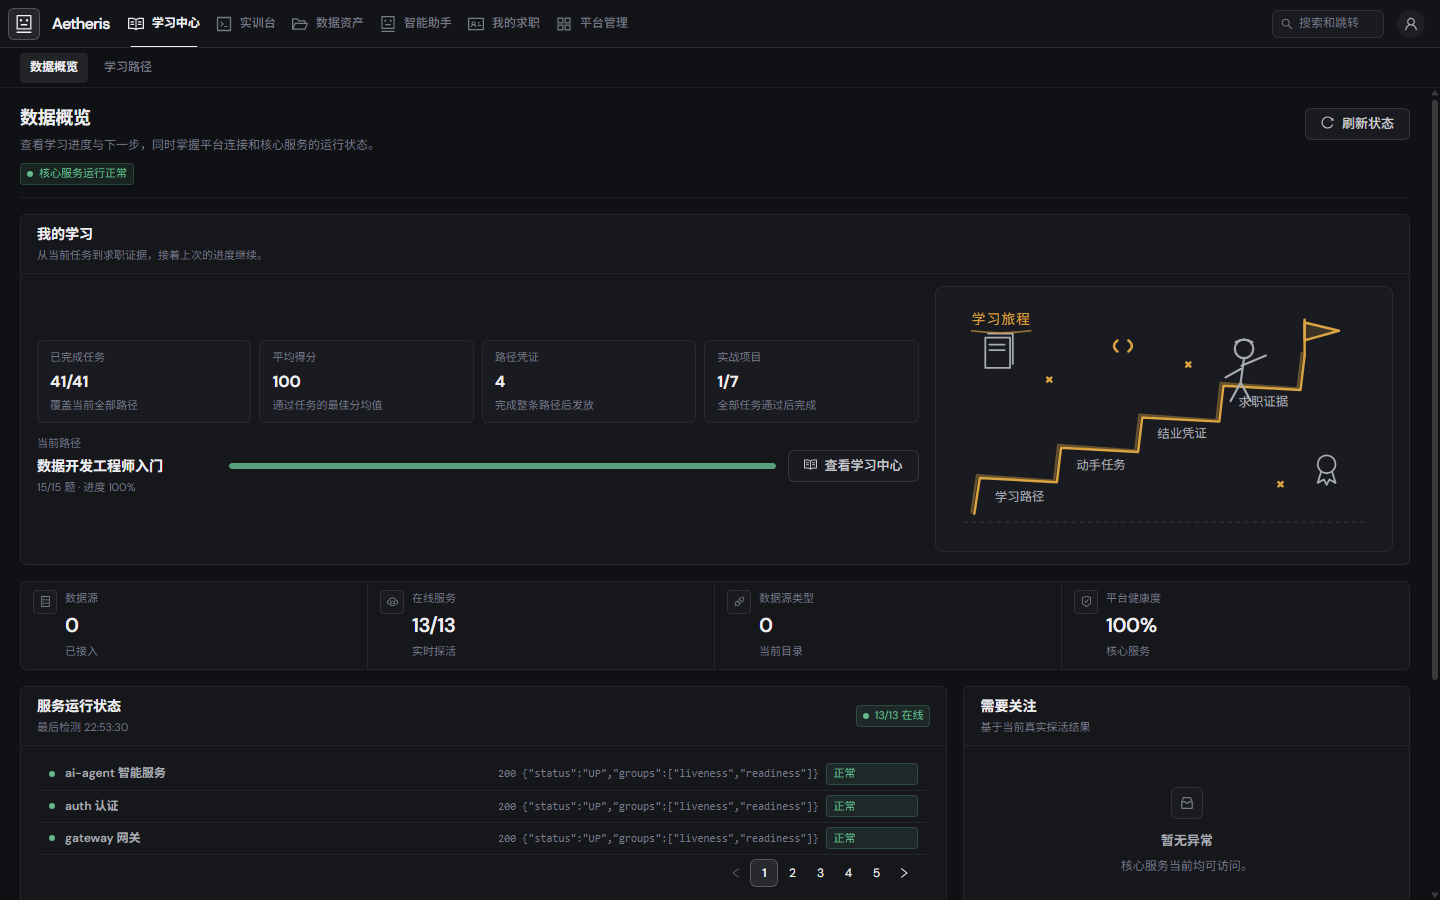
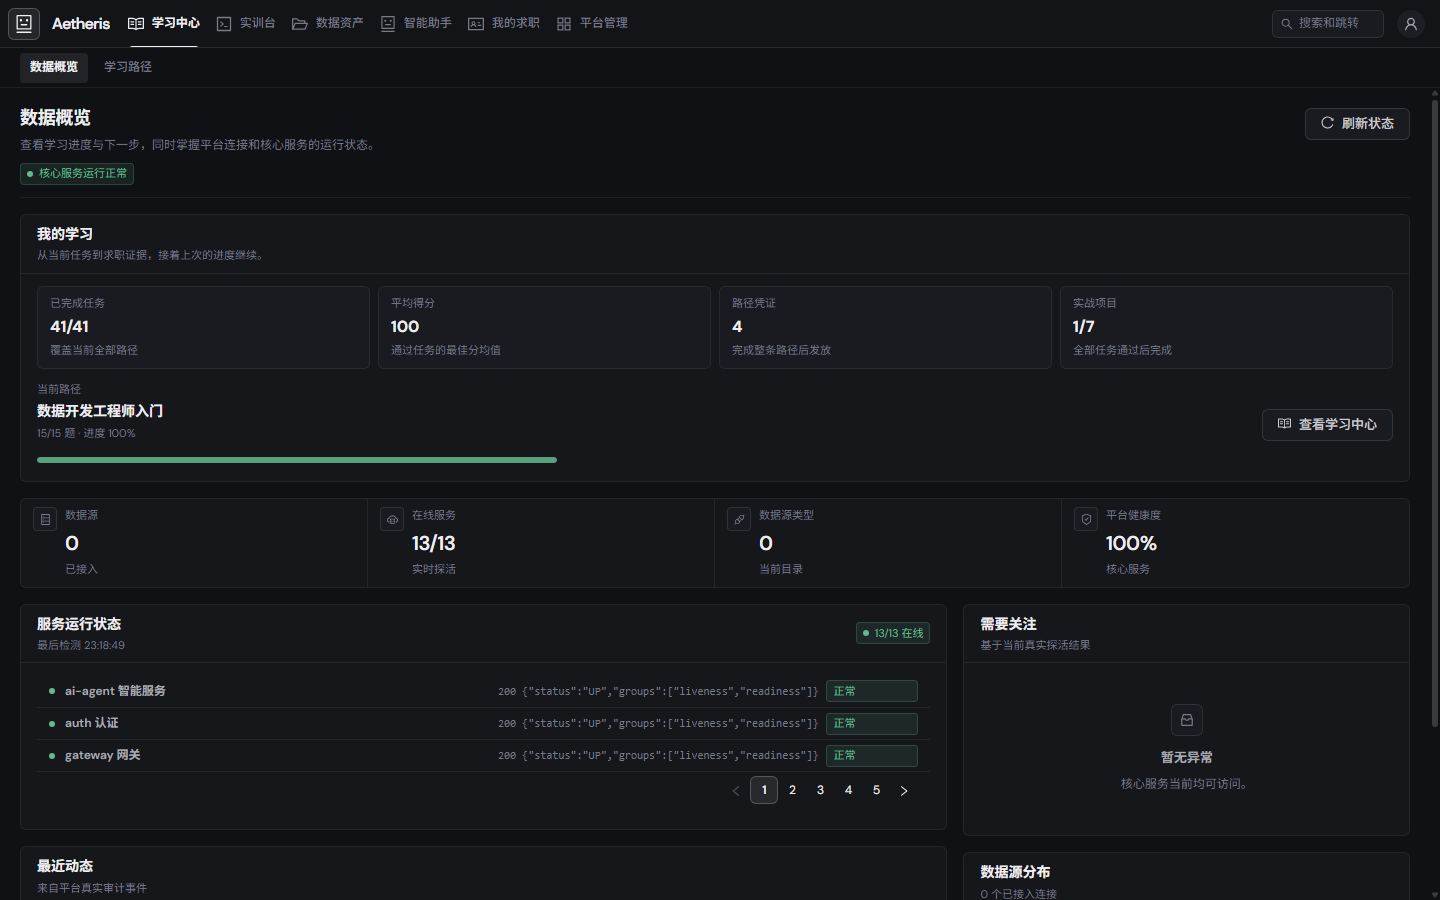
fix: remove home illustration and tighten learning overview layout

diff --git a/apps/web/src/pages/dashboard/LearningOverview.tsx b/apps/web/src/pages/dashboard/LearningOverview.tsx
@@ -14,7 +14,6 @@ import {
 } from '@/api/learning'
 import DataSurface from '@/components/DataSurface'
 import { LoadingState } from '@/components/FeedbackState'
-import LearningJourneyArt from './LearningJourneyArt'
 
 const ACTIVE_PATH_STORAGE_KEY = 'aetheris.learning.activePath'
 
@@ -90,13 +89,13 @@ export default function LearningOverview() {
                     ? `${activeSummary.completedLabs}/${activeSummary.labCount} 题 · 进度 ${activeSummary.progressPercent}%`
                     : '前往学习中心开始第一题'}
                 </small>
+                <Progress
+                  className="learning-overview-progress"
+                  percent={activeSummary?.progressPercent ?? 0}
+                  showInfo={false}
+                  size="small"
+                />
               </div>
-              <Progress
-                className="learning-overview-progress"
-                percent={activeSummary?.progressPercent ?? 0}
-                showInfo={false}
-                size="small"
-              />
               {nextLab ? (
                 <Button type="primary" icon={<PlayCircleOutlined />} onClick={() => navigate(`/learning/labs/${nextLab.code}`)}>
                   继续学习
@@ -107,7 +106,6 @@ export default function LearningOverview() {
             </div>
             {nextLab && <p className="learning-overview-hint">下一题：{nextLab.title}</p>}
           </div>
-          <figure className="learning-overview-art"><LearningJourneyArt /></figure>
         </div>
       )}
     </DataSurface>

diff --git a/apps/web/src/styles/pages.css b/apps/web/src/styles/pages.css
@@ -300,10 +300,7 @@
 }
 
 .learning-overview {
-  display: grid;
-  grid-template-columns: minmax(0, 1fr) minmax(240px, 0.52fr);
-  gap: var(--space-5);
-  align-items: center;
+  min-width: 0;
 }
 
 .learning-overview-metrics {
@@ -343,6 +340,7 @@
   display: flex;
   flex-wrap: wrap;
   align-items: center;
+  justify-content: space-between;
   gap: var(--space-4);
   margin-top: var(--space-4);
 }
@@ -350,7 +348,9 @@
 .learning-overview-current {
   display: grid;
   gap: 2px;
-  min-width: 180px;
+  min-width: 200px;
+  flex: 1 1 320px;
+  max-width: 520px;
 }
 
 .learning-overview-current strong {
@@ -358,27 +358,11 @@
 }
 
 .learning-overview-progress {
-  flex: 1 1 180px;
-  min-width: 140px;
-  margin: 0;
+  margin: var(--space-2) 0 0;
 }
 
 .learning-overview-hint {
   margin: var(--space-2) 0 0;
-}
-
-.learning-overview-art {
-  margin: 0;
-  padding: var(--space-3);
-  border: 1px solid var(--border-subtle);
-  border-radius: var(--radius-lg);
-  background: var(--bg-subtle);
-}
-
-.learning-overview-art svg {
-  display: block;
-  width: 100%;
-  height: auto;
 }
 
 .dashboard-grid > .data-surface,

diff --git a/apps/web/src/styles/tokens.css b/apps/web/src/styles/tokens.css
@@ -23,8 +23,6 @@
   --accent-hover: #ffffff;
   --accent-subtle: rgba(255, 255, 255, 0.08);
   --accent-border: rgba(255, 255, 255, 0.22);
-  /* 插图专用：Notion 风格黄色线稿，仅用于学习场景装饰。 */
-  --illustration-accent: #d9a441;
   --action-primary-bg: #f0f0f2;
   --action-primary-hover: #ffffff;
   --action-primary-active: #d9dade;
@@ -192,7 +190,6 @@
   --accent-hover: #08090a;
   --accent-subtle: rgba(15, 23, 42, 0.07);
   --accent-border: rgba(15, 23, 42, 0.20);
-  --illustration-accent: #b07d1a;
   --action-primary-bg: #202226;
   --action-primary-hover: #08090a;
   --action-primary-active: #383b41;

diff --git a/apps/web/src/styles/responsive.css b/apps/web/src/styles/responsive.css
@@ -101,16 +101,8 @@
     grid-template-columns: 1fr;
   }
 
-  .learning-overview {
-    grid-template-columns: 1fr;
-  }
-
   .learning-overview-metrics {
     grid-template-columns: repeat(2, minmax(0, 1fr));
-  }
-
-  .learning-overview-art {
-    display: none;
   }
 
   .dashboard-side-stack {

diff --git a/docs/goals-learning-pivot-2026-11-17.md b/docs/goals-learning-pivot-2026-11-17.md
@@ -1,7 +1,7 @@
 # Aetheris 学习目标化转型：2–3 天执行目标（2026-11-17）
 
 版本：2026-11-17 规划版。适用：用户明确启动后，在 `C:\Users\yafei\RA1NL0VE\Aetheris-sim`（sim 分支）执行。
-**执行状态（2026-11-23）**：检查点 1–97 已交付；4 条路径 / 41 个可判分任务、全量判分回归 41/41、前端 353/353、Flyway v36、16 容器 healthy；在线 AI 已通过阿里云 Token Plan 验收；真实开放样例（UCI，CC BY 4.0）已落地；数据概览为默认首页并含学习者「我的学习」区块与插图；严格评审的 P0/P1/P2 问题已整改。完成度审计见 §16。
+**执行状态（2026-11-23）**：检查点 1–98 已交付；4 条路径 / 41 个可判分任务、全量判分回归 41/41、前端 353/353、Flyway v36、16 容器 healthy；在线 AI 已通过阿里云 Token Plan 验收；真实开放样例（UCI，CC BY 4.0）已落地；数据概览为默认首页并含学习者「我的学习」区块（无插图）；严格评审的 P0/P1/P2 问题已整改。完成度审计见 §16。
 依据：现有代码盘点（见各工作包"现状"）、[全项目复核 N01–N23](reviews/2026-10-26-project-gap-review.md)、[上一版执行目标](next-goals-2026-10-26.md)、[前端设计规范](frontend-style.md)。
 
 **战略定位（用户指令，属战略下注，证据级别 D）**：把平台从"企业数据中台操作台"逐步转向"面向求职者的数据开发实训与证据平台"。企业能力不删除，收进管理员/高级视图；学习者看到的默认界面以"学会 → 练会 → 证明会"为主线。
@@ -902,6 +902,11 @@ Day1=L01+L02+L07；Day2=L03+L04+L06a；Day3=L05+L06b+L08。每片独立可回滚
 - 响应式：≤1024px 单列并隐藏插图，≤560px 指标单列；新增 `--illustration-accent` 令牌（暗/亮各一）。
 - 验证：type-check/lint 通过；前端 70 文件 / 353 用例；学习冒烟新增 `learningOverview` 检查（等待真实数据而非骨架）并输出首页截图；web 镜像重建，16 容器 healthy。
 
+### 2026-11-23 检查点 98：移除首页插图（按反馈）
+
+- 用户评估插图视觉质量不达标；移除手绘 SVG 组件与 `--illustration-accent` 令牌、相关样式与响应式规则，保留「我的学习」数据区块，布局回到单列。
+- 验证：type-check/lint；前端 70 文件 / 353 用例；学习冒烟通过并重新生成首页截图（无插图版本）；web 镜像重建。
+
 ## 11. 预留：学习者真实数据范例（L09，按需启动）
 
 现状锚点：`teach.orders_raw` 为合成教学数据（`V2__teaching_dataset.sql`，刻意保留 6 类脏数据），沙箱通过 CTAS 复制，不直接写源表。
@@ -1073,7 +1078,7 @@ docker exec aetheris-postgres-1 psql -U aetheris -d aetheris \
 | 样例导入工具 apply/回滚 | dry-run、apply（200 行、checksum 登记）、坏行自动恢复、清理后基线 15 条 | 检查点 93；`teach.import_rehearsal` 演练 |
 | 真实样例落地 | 12,330 行、checksum `0810e1dd…`、清单 CC BY 4.0；da-l2-05 正例 100 | 检查点 94；`seed-online-shoppers.mjs` |
 | 安全整改（沙箱越权/写执行/空通过） | 最小权限角色 + 计划白名单 + 越权探针拦截；事务导入失败回滚 | 检查点 96；`aetheris_sandbox`、V36 |
-| 学习概览首页 | 「我的学习」区块（进度/得分/凭证/项目/继续学习）+ 手绘 SVG 插图 | 检查点 97；`home-learning-overview.png` |
+| 学习概览首页 | 「我的学习」区块（进度/得分/凭证/项目/继续学习） | 检查点 97/98；`home-learning-overview.png` |
 | 迁移版本 | Flyway v36 | 检查点 59/73/94/96 |
 | 部署 | 16 个标准命名容器 healthy、web 200 | 检查点 85/87 |
 | 运行时门 / 备份 / 证据 | 回归 41/41、冒烟、观测 12 服务；V34 备份可恢复；37 份证据索引 | 检查点 65/67/75/80/87/97 |

diff --git a/artifacts/learning-pivot-20261117/README.md b/artifacts/learning-pivot-20261117/README.md
@@ -43,7 +43,7 @@
 | topnav-brand-logo.png | 左上角品牌图标态（1 秒闪动） |
 | sample-data/online_shoppers.csv | UCI 真实样例（CC BY 4.0，12,330 行，snake_case） |
 | sample-data/LICENSE.txt | 数据集归因与修改说明 |
-| home-learning-overview.png | 学习者首页：我的学习区块与学习旅程插图 |
+| home-learning-overview.png | 学习者首页：我的学习区块 |
 
 ## 管理端
 
